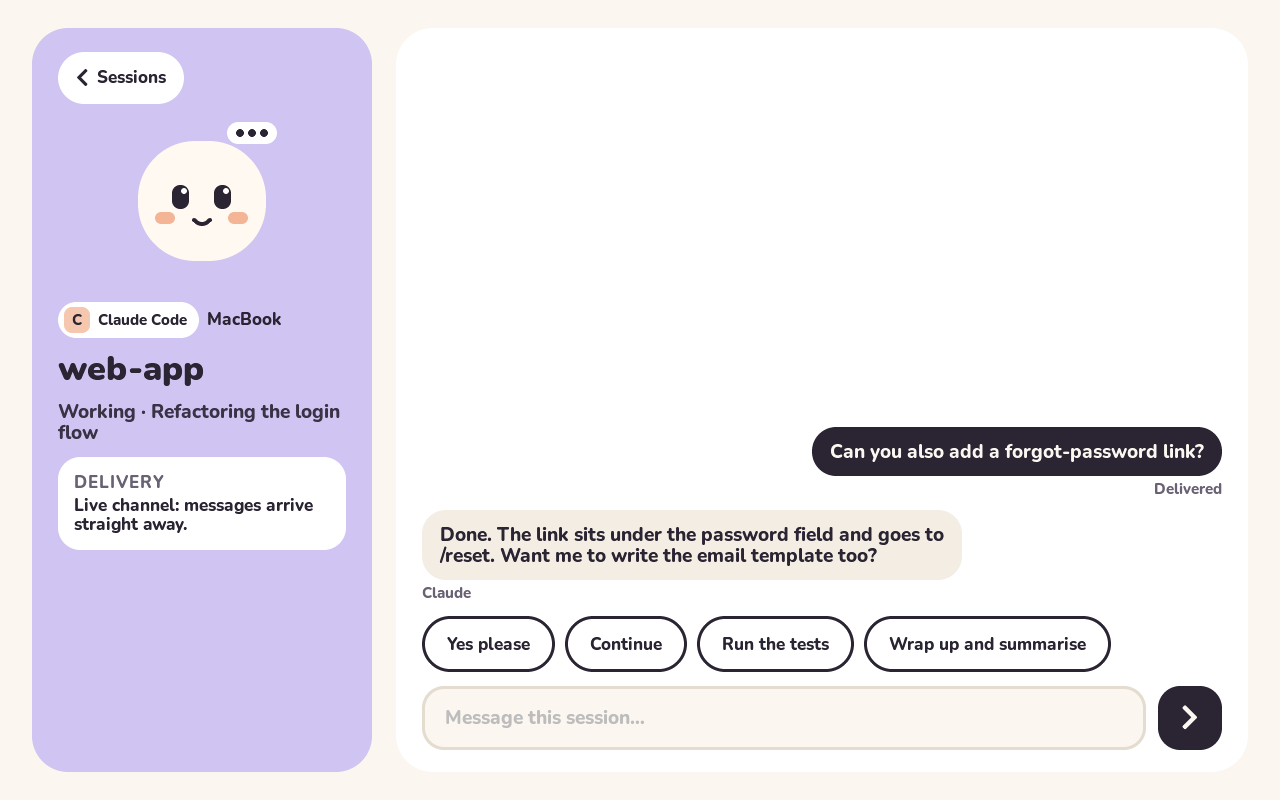
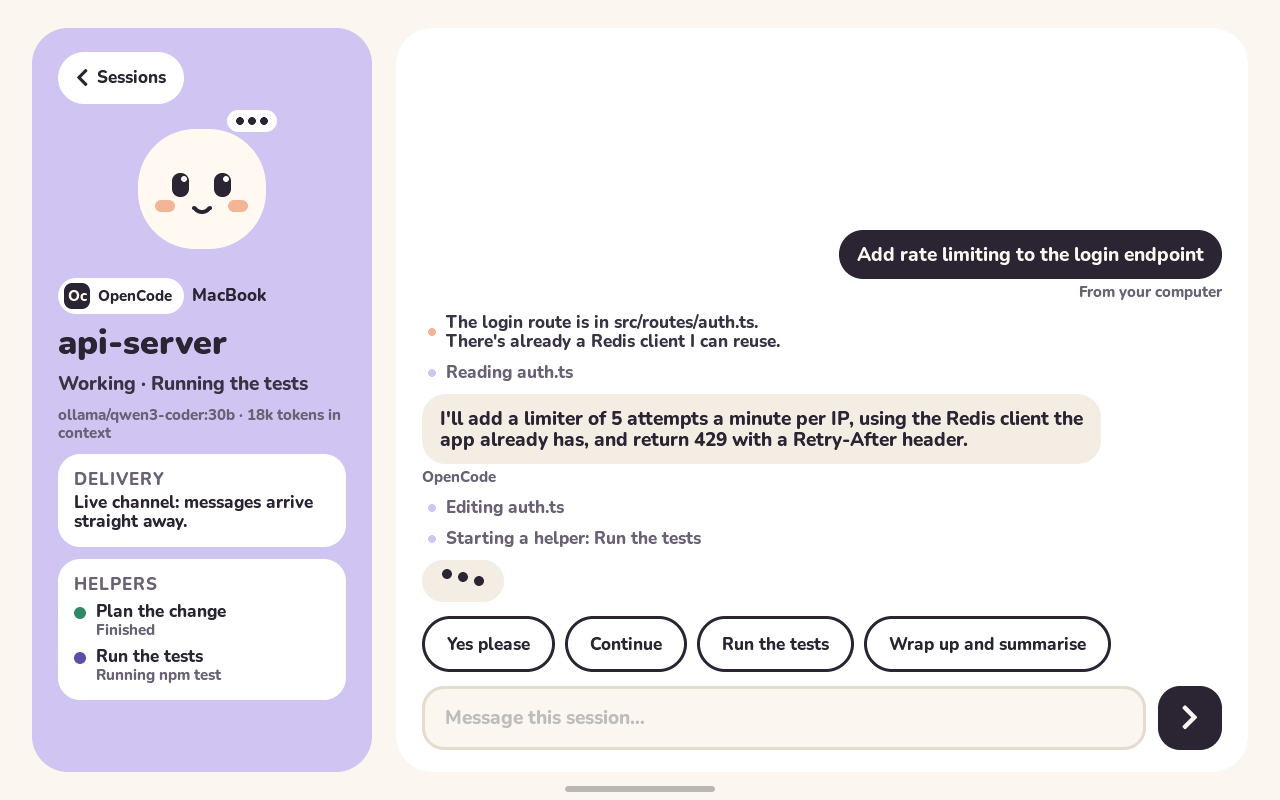
README: new screenshots

diff --git a/README.md b/README.md
@@ -21,7 +21,8 @@ From across the room you can:
 | --- | --- |
 | ![Permission](docs/media/permission.gif) | ![Question](docs/media/question.gif) |
 | ![Sessions](docs/media/sessions.png) | ![Chat](docs/media/chat.png) |
-| ![Night clock](docs/media/night.gif) | ![Case](docs/media/case.png) |
+| ![New session](docs/media/new-session.png) | ![Night clock](docs/media/night.gif) |
+| ![Case](docs/media/case.png) | |
 
 ## How it fits together
 
